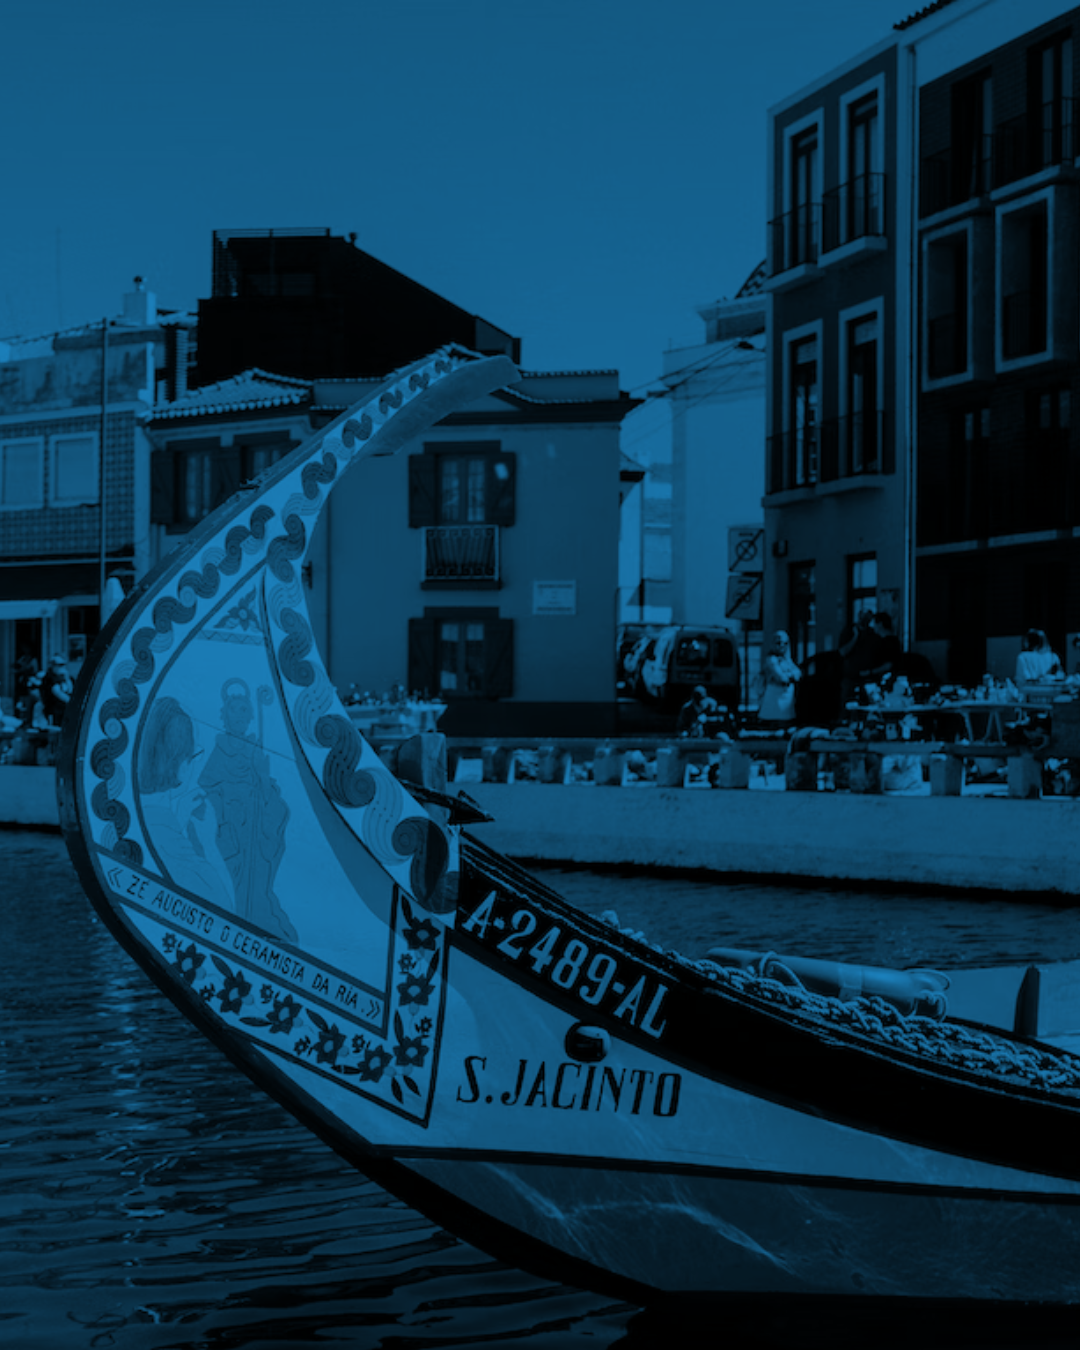
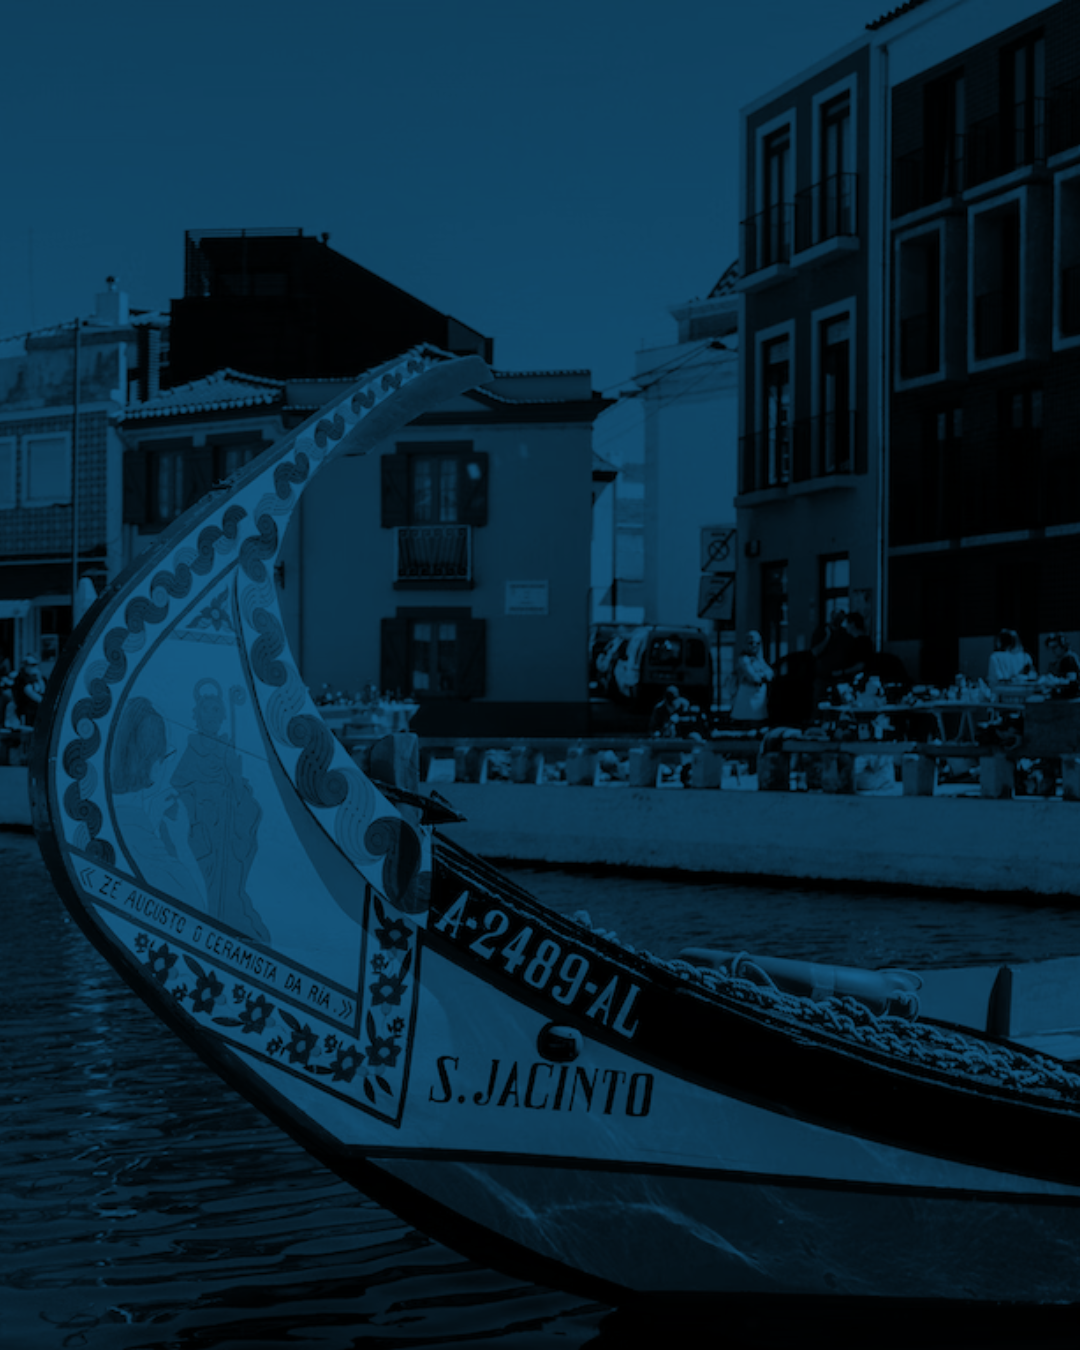
pág obrigado.php concluída

diff --git a/index.html b/index.html
@@ -20,7 +20,7 @@
     <article id="first_section">
         <!-- banner -->
         <section class="banner-bistec">
-            <img src="assets/images/banner-moliceiro.png" alt="Imagem de fundo com o moliceiro da cidade de Aveiro">
+            <img src="assets/images/moliceiro-banner-bistecportugal2.png" alt="Imagem de fundo com o moliceiro da cidade de Aveiro">
             <div class="banner-bistec-texto">
                 <h1>Bistec Portugal</h1>
                 <h2>Serviços em tecnologia para todas as empresas</h2>

diff --git a/assets/css/styleEmail.css b/assets/css/styleEmail.css
@@ -16,6 +16,12 @@
     padding: 1.75vh 0;
 }
 
+.email-enviado ion-icon {
+    font-size: 25vh;
+    color: rgb(46, 206, 81);
+    opacity: 0.3;
+}
+
 @media (max-width: 620px){
     .email-enviado{
         max-width: 75%;

diff --git a/email/obrigado.php b/email/obrigado.php
@@ -28,7 +28,9 @@
             <section class="email-enviado">
                 <h1>Email Enviado</h1>
                 <p>Email enviado com sucesso para o endereço <b><?php echo $emailR?></b></p>
+                <ion-icon name="checkmark-circle-outline"></ion-icon>
             </section>
+            
         </article>
 
         <!-- rodapé -->
